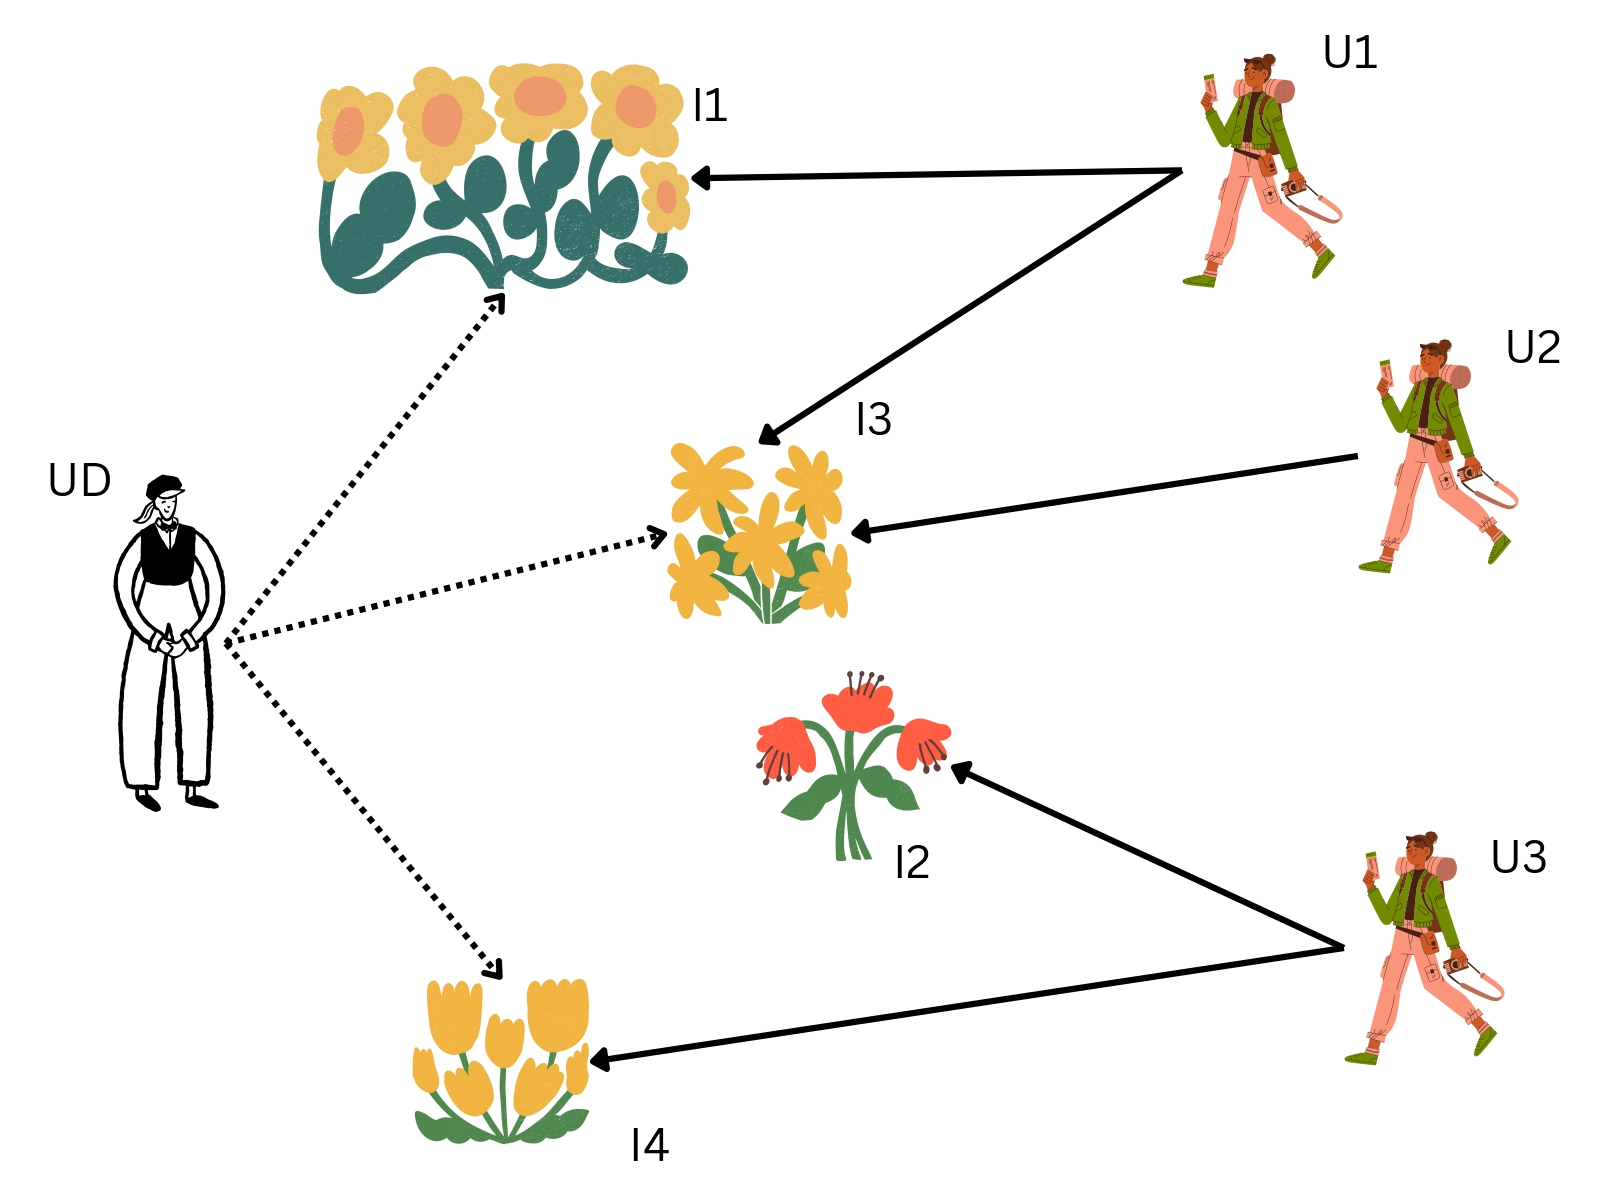
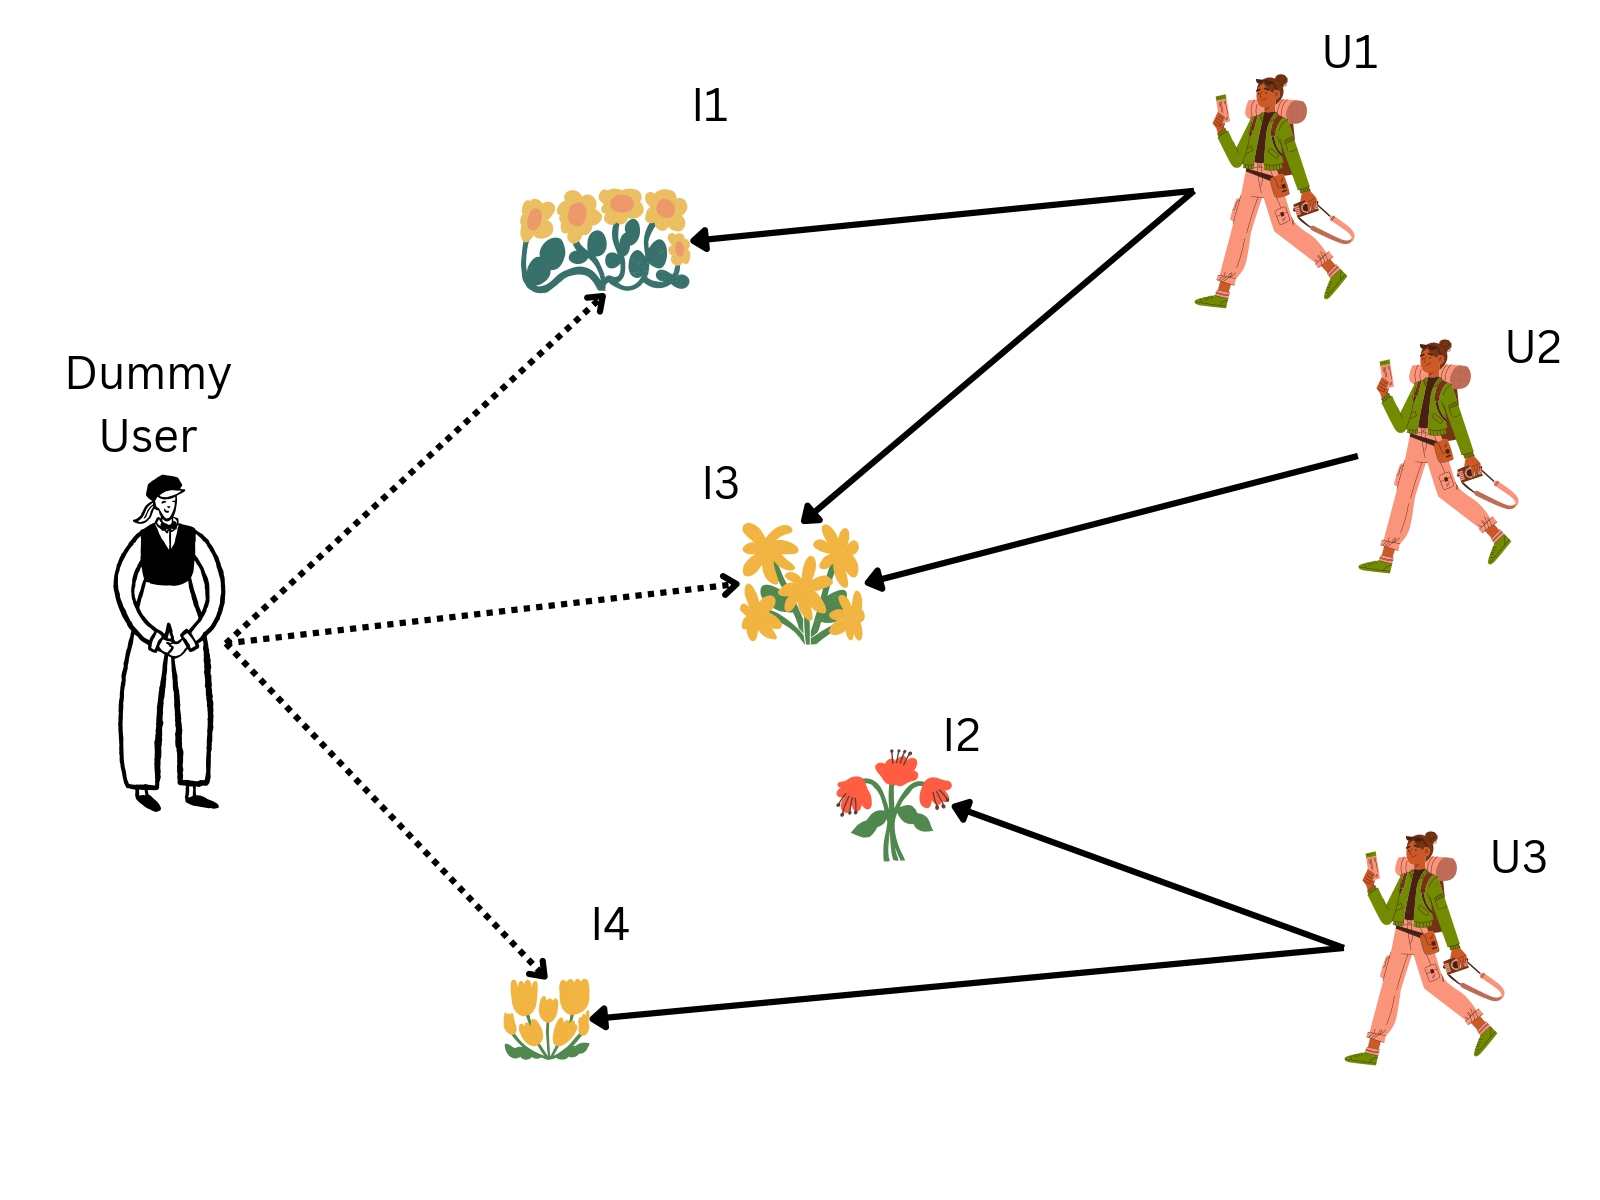
Update recommender_systems.md

diff --git a/docs/use_cases/recommender_systems.md b/docs/use_cases/recommender_systems.md
@@ -1,14 +1,8 @@
-<!--SEO SUMMARY: Recommender Systems can be improved by incorporating side information about users and items, even when this information is scarce. This article proposes using auxilary users and auxilary items, 
-to inject additional connections into collaborative filtering models like matrix factorization. For example, an auxilary user could link together all items of the same genre. This couples similar items and helps 
-the model identify related content. The same approach works for sparse user metadata.
-
-Potential benefits of this approach over neural networks include simplicity, transparency, efficiency, flexibility, and interpretability. Downsides are handling dense features and adding complexity with many auxilary nodes.
-
-The approach provides a lightweight way to get value from categorical side data. It balances simplicity and accuracy. For many common cases with limited side info, auxilary nodes offer straightforward improvements. -->
+<!--SEO SUMMARY: Recommender Systems can be improved by incorporating side information about users and items, even when this information is scarce. According to an IBM study, personalized product recommendations can lead to a 10-30% increase in revenue. However, creating truly personalized experiences requires extensive user and product data, which is not always available. For example, providers with restrictions on collecting user data may only have basic product information like genre and popularity. While collaborative filtering approaches can still work reasonably well, they leave significant gains on the table. By incorporating side data, no matter how limited, recommendation quality can potentially increase significantly (over 20% in precision), leading to greater customers's satisfaction, more traffic, millions in additional revenue. -->
 
 # Recommender Systems
 
-![](assets/use_cases/recommender_systems/dummy_nodes.jpg)
+![](assets/use_cases/recommender_systems/recommender.jpg)
 
 Recommender Systems are becoming increasingly important, given the plethora of products offered to the users/customers. For example, in early days, fashion retailers developed basic versions of content-based recommenders that served quite well, but soon the need emerged for more relevant recommendations that could increase user’s engagement. At the moment of this writing, fashion retailers use far more sophisticated approaches that make use not only of the user’s purchasing/viewing history, but also of user and item metadata: user age, location, spending habits, mood, etc.; item category, popularity, etc.
 
@@ -17,17 +11,16 @@ However, it is sometimes the case that only scarce side information about the us
 
 ### Recommender Systems as Graphs
 
-Before we go into details on how this is achieved (at you’d be surprised how easily!), let’s take a step back and try to observe the typical matrix factorization approach through the lens of graph algorithms. The user-item interaction matrix can be observed as an adjacency matrix of a bipartite graph (‘bi’, because there are two groups of nodes, users and items, and link can exist only between nodes belonging to different groups). The rating recovered (predicted) by the MF approach can be seen as the predicted weight of the edge existing between that particular user-item pair. So, in the end, the recommendations for a user are actually the most likely links this user is going to establish in the future (with the information on the weight of these links).
+Matrix factorization is a common collaborative filtering approach. It represents users and items as vectors in a shared latent space. The inner product of a user and item vector estimates the rating or interaction strength. We can view this process through a graph perspective. Users and items become graph nodes. Predicted ratings are edge weights between them. Recommendations identify the most likely new connections for a user. With this graph view, we can easily inject additional nodes as needed. For example, a "genre" node that links related items. This couples similar items which improves recommendations.
 
 (We deliberately took a detour and observed the problem via graphs. Note that this approach is known as ‘joint matrix factorization’ in the literature).
 
-Once the problem is understood as inherently a graph problem, it is easy to see how additional information can be added. What we want to achieve is to somehow let the algorithm know about the new links, which would help group similar items or users together. In other words, we want to ‘inject’ new nodes, which would link the nodes belonging to the same group. How could this be achieved? For the sake of simplicity, let’s assume that only genre information is available on the items. In this case, for each genre, we add a dummy user whose interactions are items that belong to this genre. In such a way, given a graph of user and item nodes, the new dummy user allows for coupling of same-genre items, which in turns helps the model.
+Once the problem is understood as inherently a graph problem, it is easy to see how additional information can be added. What we want to achieve is to somehow let the algorithm know about the new links, which would help group similar items or users together. In other words, we want to ‘inject’ new nodes, which would link the nodes belonging to the same group. How could this be achieved? Have a look at illustration below:
 
+![](assets/use_cases/recommender_systems/dummy_nodes.jpg)
 
-#### Illustration
-
-Have a look at the illustration above. There are three users, U1, U2 and U3, and four items, I1, I2, I3, I4. The user U1 has interacted with items I1 and I3. Now, there is a dummy user, UD, who links the items that have the same color (I1, I3, I4). This increases the chances of item I4 to be recommended to user U1.
-
+There are three users, U1, U2 and U3, and four items, I1, I2, I3, I4. The user U1 has interacted with items I1 and I3. Now, there is a Dummy User, who links the items that have the same color (I1, I3, I4). 
+The dummy user couples similar items, helping the model identify related content. This increases the chances of item I4 to be recommended to user U1.
 
 #### Adaptation
 
@@ -37,14 +30,14 @@ Beside MF, the same approach can be used with EASE, for example, or with an expl
 
 One question remains: which weights (ratings) to put for the dummy user interactions? We suggest you first start with low weights, and see how the quality of the recommendations changes.
 
-
 ### Potential problems
 
 Obviously, the addition of dummy nodes increases the computational and memory complexity, but in most cases this is a negligible compromise, given the scarcity of the side information. In an audio-on-demand platform, with 250K items in the catalog, there were a few hundred item categories only.
 
 #### Real-world use case
 
-The ALS-based model described above improved upon the production model in an offline evaluation carried on data of one of the most popular audio-on-demand platforms in Germany.
+We evaluated an ALS matrix factorization model with genre dummy users on an audio platform with over 250k items (genre such as "comedy", "documentary", etc.). Compared to their production system, 
+it increased recommendation accuracy by over 10%.
 
 #### Numerical data as side information
 
@@ -56,27 +49,7 @@ A natural question: what to do in case the side information is numerical, not ca
 
 ### Comparison with LightFM and Neural Collaborative Filtering
 
-There are several potential advantages of using dummy nodes to inject side information compared to methods like LightFM or neural collaborative filtering:
-
--  Simplicity - Dummy nodes provide a very simple way to incorporate side information into existing matrix factorization or graph-based models without major architecture changes.
-
--  Transparency - The dummy nodes have a clear interpretation and their impact on recommendations can be analyzed directly. This differs from neural networks where the impact of side features may be opaque.
-
--  Efficiency - Dummy nodes avoid making the core recommendation model significantly more complex, which could slow training and serving. LightFM and neural networks add more parameters and computation.
-
--  Flexibility - Dummy nodes provide a generic way to input any categorical side features, whereas neural networks require specific input layers designed for each feature type.
-
--  Interpretability - Adding explicit dummy node connections maintains the interpretability of similarity-based recommendation models. Neural networks act as "black boxes".
-
-However, there are also some potential disadvantages compared to LightFM and neural methods:
-
-- Not ideal for dense/continuous side features
-- Adding many dummy nodes can degrade performance
-- Harder to incorporate temporal dynamics
-
-In summary, dummy nodes provide a simple and transparent way to get some value from side information, but may not be as powerful as neural networks or specialized hybrid methods for complex, dense side features. The tradeoff is simplicity and interpretability versus model expressiveness.
-
-The best approach depends on the use case, model constraints, types of side information available, and how much model accuracy can be sacrificed for simplicity. For many common cases with limited categorical side data, dummy nodes could provide a "good enough" improvement with little added complexity.
+Injecting dummy nodes provides a lightweight way to improve recommendations when only limited side data is available. The simplicity keeps training fast and preserves interpretability compared to neural models. Dummy nodes are ideal for sparse categorical features like genre, but may underperform for dense numerical data. With rich side information, neural collaborative filtering would be preferred despite increased complexity. Overall, dummy nodes offer a transparent way to gain value from side data, with little cost when features are simple. They balance accuracy and speed for common cases. You would choose this technique when you have sparse categorical metadata and want straightforward gains without major modeling changes.
 
 ---
 ## Contributors
